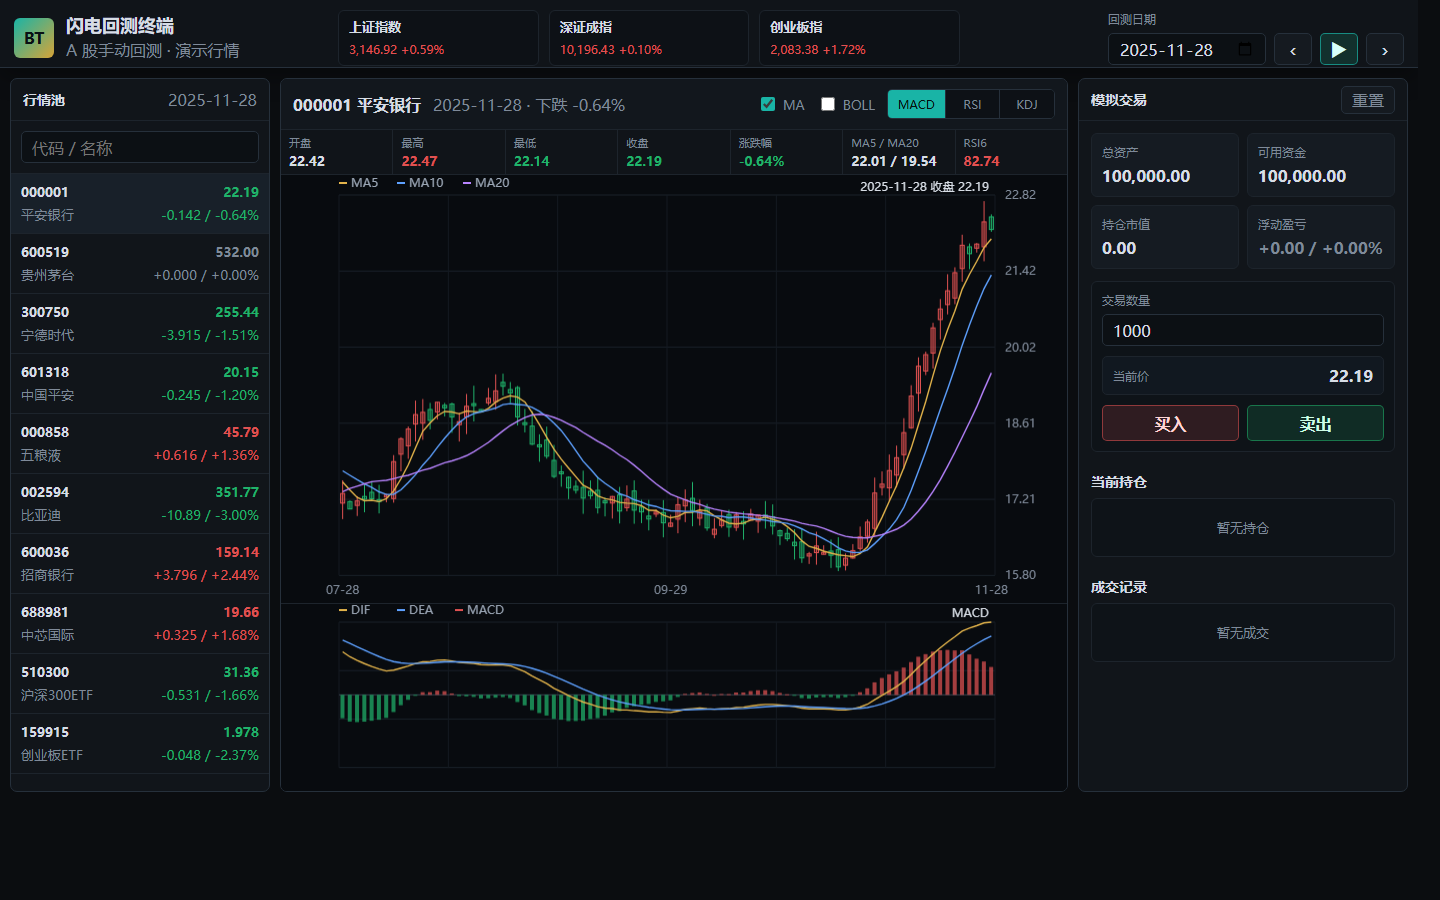
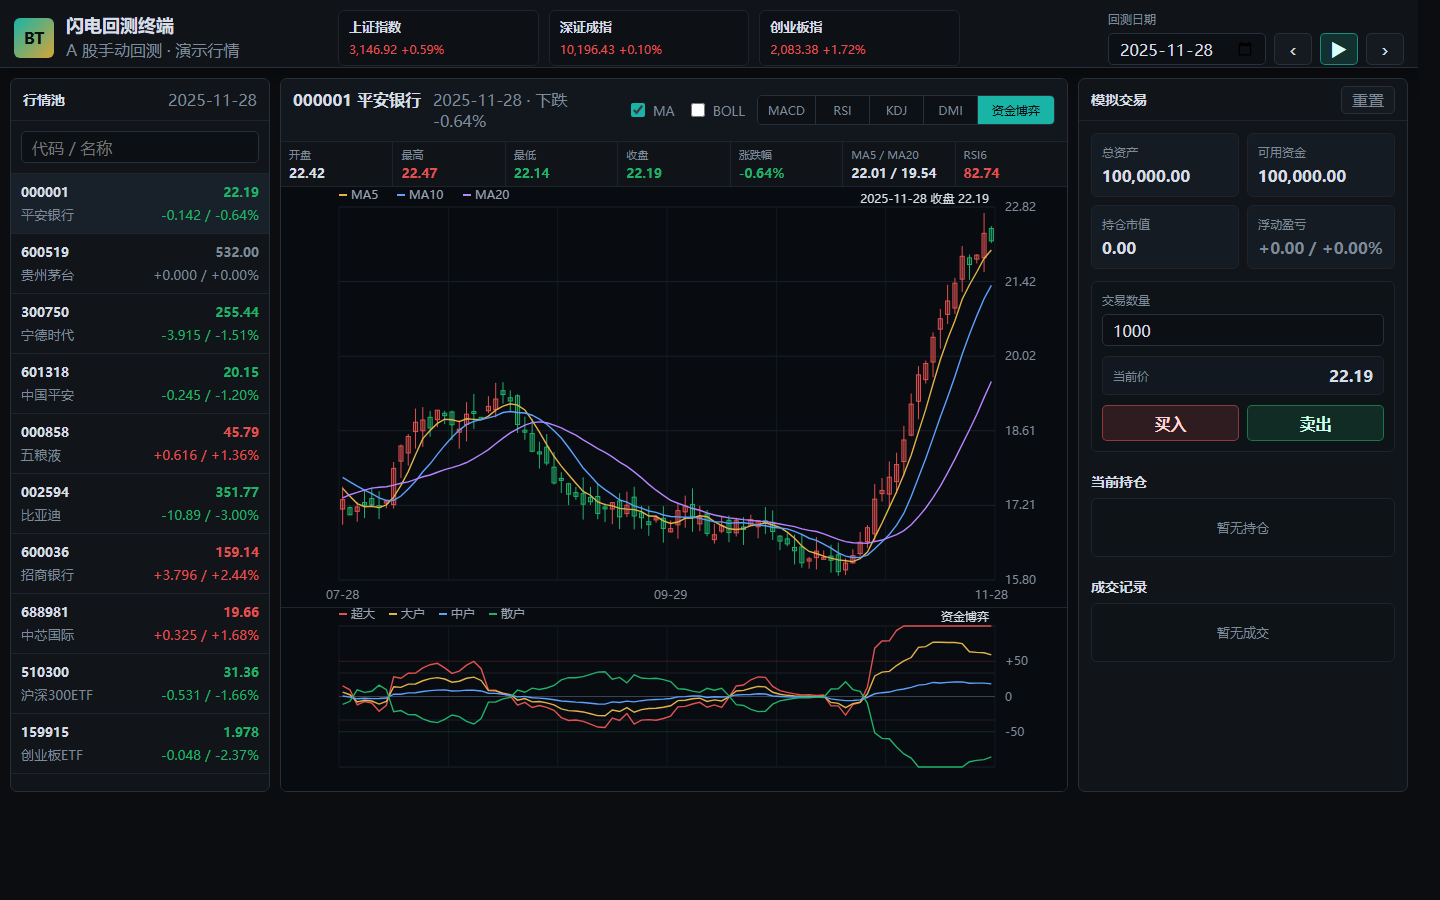
Add DMI and capital game indicators

diff --git a/app.js b/app.js
@@ -23,7 +23,7 @@
   const state = {
     symbol: "000001",
     currentIndex: Math.min(148, tradingDays.length - 1),
-    panel: "macd",
+    panel: initialPanel(),
     showMA: true,
     showBOLL: false,
     trades: [],
@@ -68,6 +68,7 @@
     el.backtestDate.max = tradingDays[tradingDays.length - 1];
     el.backtestDate.value = tradingDays[state.currentIndex];
 
+    syncPanelButtons();
     bindEvents();
     renderAll();
   }
@@ -105,7 +106,8 @@
     document.querySelectorAll(".segment").forEach((button) => {
       button.addEventListener("click", () => {
         state.panel = button.dataset.panel;
-        document.querySelectorAll(".segment").forEach((item) => item.classList.toggle("active", item === button));
+        window.location.hash = state.panel;
+        syncPanelButtons();
         renderCharts();
       });
     });
@@ -432,7 +434,35 @@
       drawLegend(ctx, ["K", "D", "J"], ["#e2b34b", "#5ea1ff", "#b884ff"], pad.left, 13);
     }
 
-    drawAxisText(ctx, panel.toUpperCase(), width - pad.right - 6, 13, "#d7dde5", "right");
+    if (panel === "dmi") {
+      const y = (value) => pad.top + ((100 - value) / 100) * plotH;
+      line(ctx, pad.left, y(50), width - pad.right, y(50), "rgba(127,138,153,0.26)");
+      line(ctx, pad.left, y(25), width - pad.right, y(25), "rgba(127,138,153,0.18)");
+      drawSeries(ctx, indicators.pdi, range, pad, plotW, y, "#e05252", barW);
+      drawSeries(ctx, indicators.mdi, range, pad, plotW, y, "#20b26b", barW);
+      drawSeries(ctx, indicators.adx, range, pad, plotW, y, "#e2b34b", barW);
+      drawSeries(ctx, indicators.adxr, range, pad, plotW, y, "#5ea1ff", barW);
+      drawAxisText(ctx, "50", width - pad.right + 10, y(50) + 4, "#7f8a99", "left");
+      drawAxisText(ctx, "25", width - pad.right + 10, y(25) + 4, "#7f8a99", "left");
+      drawLegend(ctx, ["PDI", "MDI", "ADX", "ADXR"], ["#e05252", "#20b26b", "#e2b34b", "#5ea1ff"], pad.left, 13);
+    }
+
+    if (panel === "capital") {
+      const y = (value) => pad.top + ((100 - value) / 200) * plotH;
+      line(ctx, pad.left, y(0), width - pad.right, y(0), "#394450");
+      line(ctx, pad.left, y(50), width - pad.right, y(50), "rgba(224,82,82,0.22)");
+      line(ctx, pad.left, y(-50), width - pad.right, y(-50), "rgba(32,178,107,0.22)");
+      drawSeries(ctx, indicators.superFund, range, pad, plotW, y, "#e05252", barW);
+      drawSeries(ctx, indicators.largeFund, range, pad, plotW, y, "#e2b34b", barW);
+      drawSeries(ctx, indicators.middleFund, range, pad, plotW, y, "#5ea1ff", barW);
+      drawSeries(ctx, indicators.retailFund, range, pad, plotW, y, "#20b26b", barW);
+      drawAxisText(ctx, "+50", width - pad.right + 10, y(50) + 4, "#7f8a99", "left");
+      drawAxisText(ctx, "0", width - pad.right + 10, y(0) + 4, "#7f8a99", "left");
+      drawAxisText(ctx, "-50", width - pad.right + 10, y(-50) + 4, "#7f8a99", "left");
+      drawLegend(ctx, ["超大", "大户", "中户", "散户"], ["#e05252", "#e2b34b", "#5ea1ff", "#20b26b"], pad.left, 13);
+    }
+
+    drawAxisText(ctx, panelTitle(panel), width - pad.right - 6, 13, "#d7dde5", "right");
   }
 
   function prepareCanvas(canvas) {
@@ -637,6 +667,8 @@
     const closes = bars.map((bar) => bar.close);
     const highs = bars.map((bar) => bar.high);
     const lows = bars.map((bar) => bar.low);
+    const opens = bars.map((bar) => bar.open);
+    const volumes = bars.map((bar) => bar.volume);
     const ma5 = sma(closes, 5);
     const ma10 = sma(closes, 10);
     const ma20 = sma(closes, 20);
@@ -652,8 +684,33 @@
     const rsi6 = rsi(closes, 6);
     const rsi12 = rsi(closes, 12);
     const { k, d, j } = kdj(highs, lows, closes, 9);
+    const { pdi, mdi, adx, adxr } = dmi(highs, lows, closes, 14, 6);
+    const { superFund, largeFund, middleFund, retailFund } = capitalGame(opens, highs, lows, closes, volumes, 13);
 
-    return { ma5, ma10, ma20, bollMid, bollUpper, bollLower, macd, signal, hist, rsi6, rsi12, k, d, j };
+    return {
+      ma5,
+      ma10,
+      ma20,
+      bollMid,
+      bollUpper,
+      bollLower,
+      macd,
+      signal,
+      hist,
+      rsi6,
+      rsi12,
+      k,
+      d,
+      j,
+      pdi,
+      mdi,
+      adx,
+      adxr,
+      superFund,
+      largeFund,
+      middleFund,
+      retailFund
+    };
   }
 
   function sma(values, period) {
@@ -727,6 +784,131 @@
     }
 
     return { k, d, j };
+  }
+
+  function dmi(highs, lows, closes, period, adxPeriod) {
+    const tr = Array(closes.length).fill(NaN);
+    const plusDM = Array(closes.length).fill(0);
+    const minusDM = Array(closes.length).fill(0);
+
+    for (let i = 1; i < closes.length; i += 1) {
+      const highMove = highs[i] - highs[i - 1];
+      const lowMove = lows[i - 1] - lows[i];
+      tr[i] = Math.max(highs[i] - lows[i], Math.abs(highs[i] - closes[i - 1]), Math.abs(lows[i] - closes[i - 1]));
+      plusDM[i] = highMove > lowMove && highMove > 0 ? highMove : 0;
+      minusDM[i] = lowMove > highMove && lowMove > 0 ? lowMove : 0;
+    }
+
+    const trRma = rma(tr, period);
+    const plusRma = rma(plusDM, period);
+    const minusRma = rma(minusDM, period);
+    const pdi = closes.map((_, index) => (trRma[index] > 0 ? (plusRma[index] / trRma[index]) * 100 : NaN));
+    const mdi = closes.map((_, index) => (trRma[index] > 0 ? (minusRma[index] / trRma[index]) * 100 : NaN));
+    const dx = closes.map((_, index) => {
+      const total = pdi[index] + mdi[index];
+      return total > 0 ? (Math.abs(pdi[index] - mdi[index]) / total) * 100 : NaN;
+    });
+    const adx = rma(dx, adxPeriod);
+    const adxr = adx.map((value, index) => (index >= adxPeriod && Number.isFinite(value) ? (value + adx[index - adxPeriod]) / 2 : NaN));
+
+    return { pdi, mdi, adx, adxr };
+  }
+
+  function capitalGame(opens, highs, lows, closes, volumes, period) {
+    const money = closes.map((close, index) => close * volumes[index]);
+    const avgMoney = sma(money, period);
+    const superRaw = [];
+    const largeRaw = [];
+    const middleRaw = [];
+    const retailRaw = [];
+
+    for (let i = 0; i < closes.length; i += 1) {
+      if (i === 0) {
+        superRaw.push(0);
+        largeRaw.push(0);
+        middleRaw.push(0);
+        retailRaw.push(0);
+        continue;
+      }
+
+      const range = Math.max(highs[i] - lows[i], closes[i] * 0.002);
+      const priceChange = (closes[i] - closes[i - 1]) / closes[i - 1];
+      const closeLocation = ((closes[i] - lows[i]) / range - 0.5) * 2;
+      const bodyPower = (closes[i] - opens[i]) / range;
+      const volumeRatio = avgMoney[i] > 0 ? clamp(money[i] / avgMoney[i], 0.55, 2.2) : 1;
+      const force = clamp(priceChange * 18 + closeLocation * 0.34 + bodyPower * 0.42, -1, 1);
+      const turnover = money[i] * volumeRatio;
+      const activeFlow = turnover * force;
+      const impulse = Math.max(0, volumeRatio - 1) * Math.sign(force) * turnover * 0.16;
+
+      superRaw.push(activeFlow * 0.42 + impulse);
+      largeRaw.push(activeFlow * 0.28);
+      middleRaw.push(activeFlow * 0.12 - impulse * 0.35);
+      retailRaw.push(-activeFlow * 0.34 - impulse * 0.65);
+    }
+
+    return {
+      superFund: normalizeFundLine(superRaw, money, period),
+      largeFund: normalizeFundLine(largeRaw, money, period),
+      middleFund: normalizeFundLine(middleRaw, money, period),
+      retailFund: normalizeFundLine(retailRaw, money, period)
+    };
+  }
+
+  function normalizeFundLine(flows, money, period) {
+    const flowSum = rollingSum(flows, period);
+    const moneySum = rollingSum(money, period);
+    return flows.map((_, index) => {
+      if (!Number.isFinite(flowSum[index]) || !Number.isFinite(moneySum[index]) || moneySum[index] === 0) return NaN;
+      return clamp((flowSum[index] / moneySum[index]) * 220, -100, 100);
+    });
+  }
+
+  function rollingSum(values, period) {
+    return values.map((_, index) => {
+      if (index < period - 1) return NaN;
+      let sum = 0;
+      for (let i = index - period + 1; i <= index; i += 1) sum += Number.isFinite(values[i]) ? values[i] : 0;
+      return sum;
+    });
+  }
+
+  function rma(values, period) {
+    const output = Array(values.length).fill(NaN);
+    let sum = 0;
+    let count = 0;
+    for (let i = 0; i < values.length; i += 1) {
+      const value = Number.isFinite(values[i]) ? values[i] : 0;
+      if (count < period) {
+        sum += value;
+        count += 1;
+        if (count === period) output[i] = sum / period;
+      } else {
+        output[i] = (output[i - 1] * (period - 1) + value) / period;
+      }
+    }
+    return output;
+  }
+
+  function panelTitle(panel) {
+    const titles = {
+      macd: "MACD",
+      rsi: "RSI",
+      kdj: "KDJ",
+      dmi: "DMI",
+      capital: "资金博弈"
+    };
+    return titles[panel] || panel.toUpperCase();
+  }
+
+  function initialPanel() {
+    const panels = ["macd", "rsi", "kdj", "dmi", "capital"];
+    const hash = window.location.hash.replace("#", "").toLowerCase();
+    return panels.includes(hash) ? hash : "macd";
+  }
+
+  function syncPanelButtons() {
+    document.querySelectorAll(".segment").forEach((item) => item.classList.toggle("active", item.dataset.panel === state.panel));
   }
 
   function createTradingDays(start, end) {

diff --git a/index.html b/index.html
@@ -56,6 +56,8 @@
                 <button class="segment active" data-panel="macd">MACD</button>
                 <button class="segment" data-panel="rsi">RSI</button>
                 <button class="segment" data-panel="kdj">KDJ</button>
+                <button class="segment" data-panel="dmi">DMI</button>
+                <button class="segment wide" data-panel="capital">资金博弈</button>
               </div>
             </div>
           </div>

diff --git a/styles.css b/styles.css
@@ -355,6 +355,10 @@ input:focus {
   font-size: 12px;
 }
 
+.segment.wide {
+  min-width: 76px;
+}
+
 .segment:last-child {
   border-right: 0;
 }

diff --git a/README.md b/README.md
@@ -6,7 +6,9 @@
 - 设置回测日期后，只显示该日期及之前的数据。
 - 逐日推进回测，未来 K 线、指标和账户浮盈都不会提前暴露。
 - 支持按当前回测日收盘价模拟买入、卖出、持仓和资金变化。
-- 内置演示行情，并计算 MA、BOLL、MACD、RSI、KDJ。
+- 内置演示行情，并计算 MA、BOLL、MACD、RSI、KDJ、DMI、资金博弈。
+
+说明：DMI 采用通用技术指标公式；资金博弈为基于价量资金流强弱的近似实现，用于原型演示，后续接入真实行情源后可以替换为东方财富同口径数据或你自己的资金流模型。
 
 打开方式：
 
